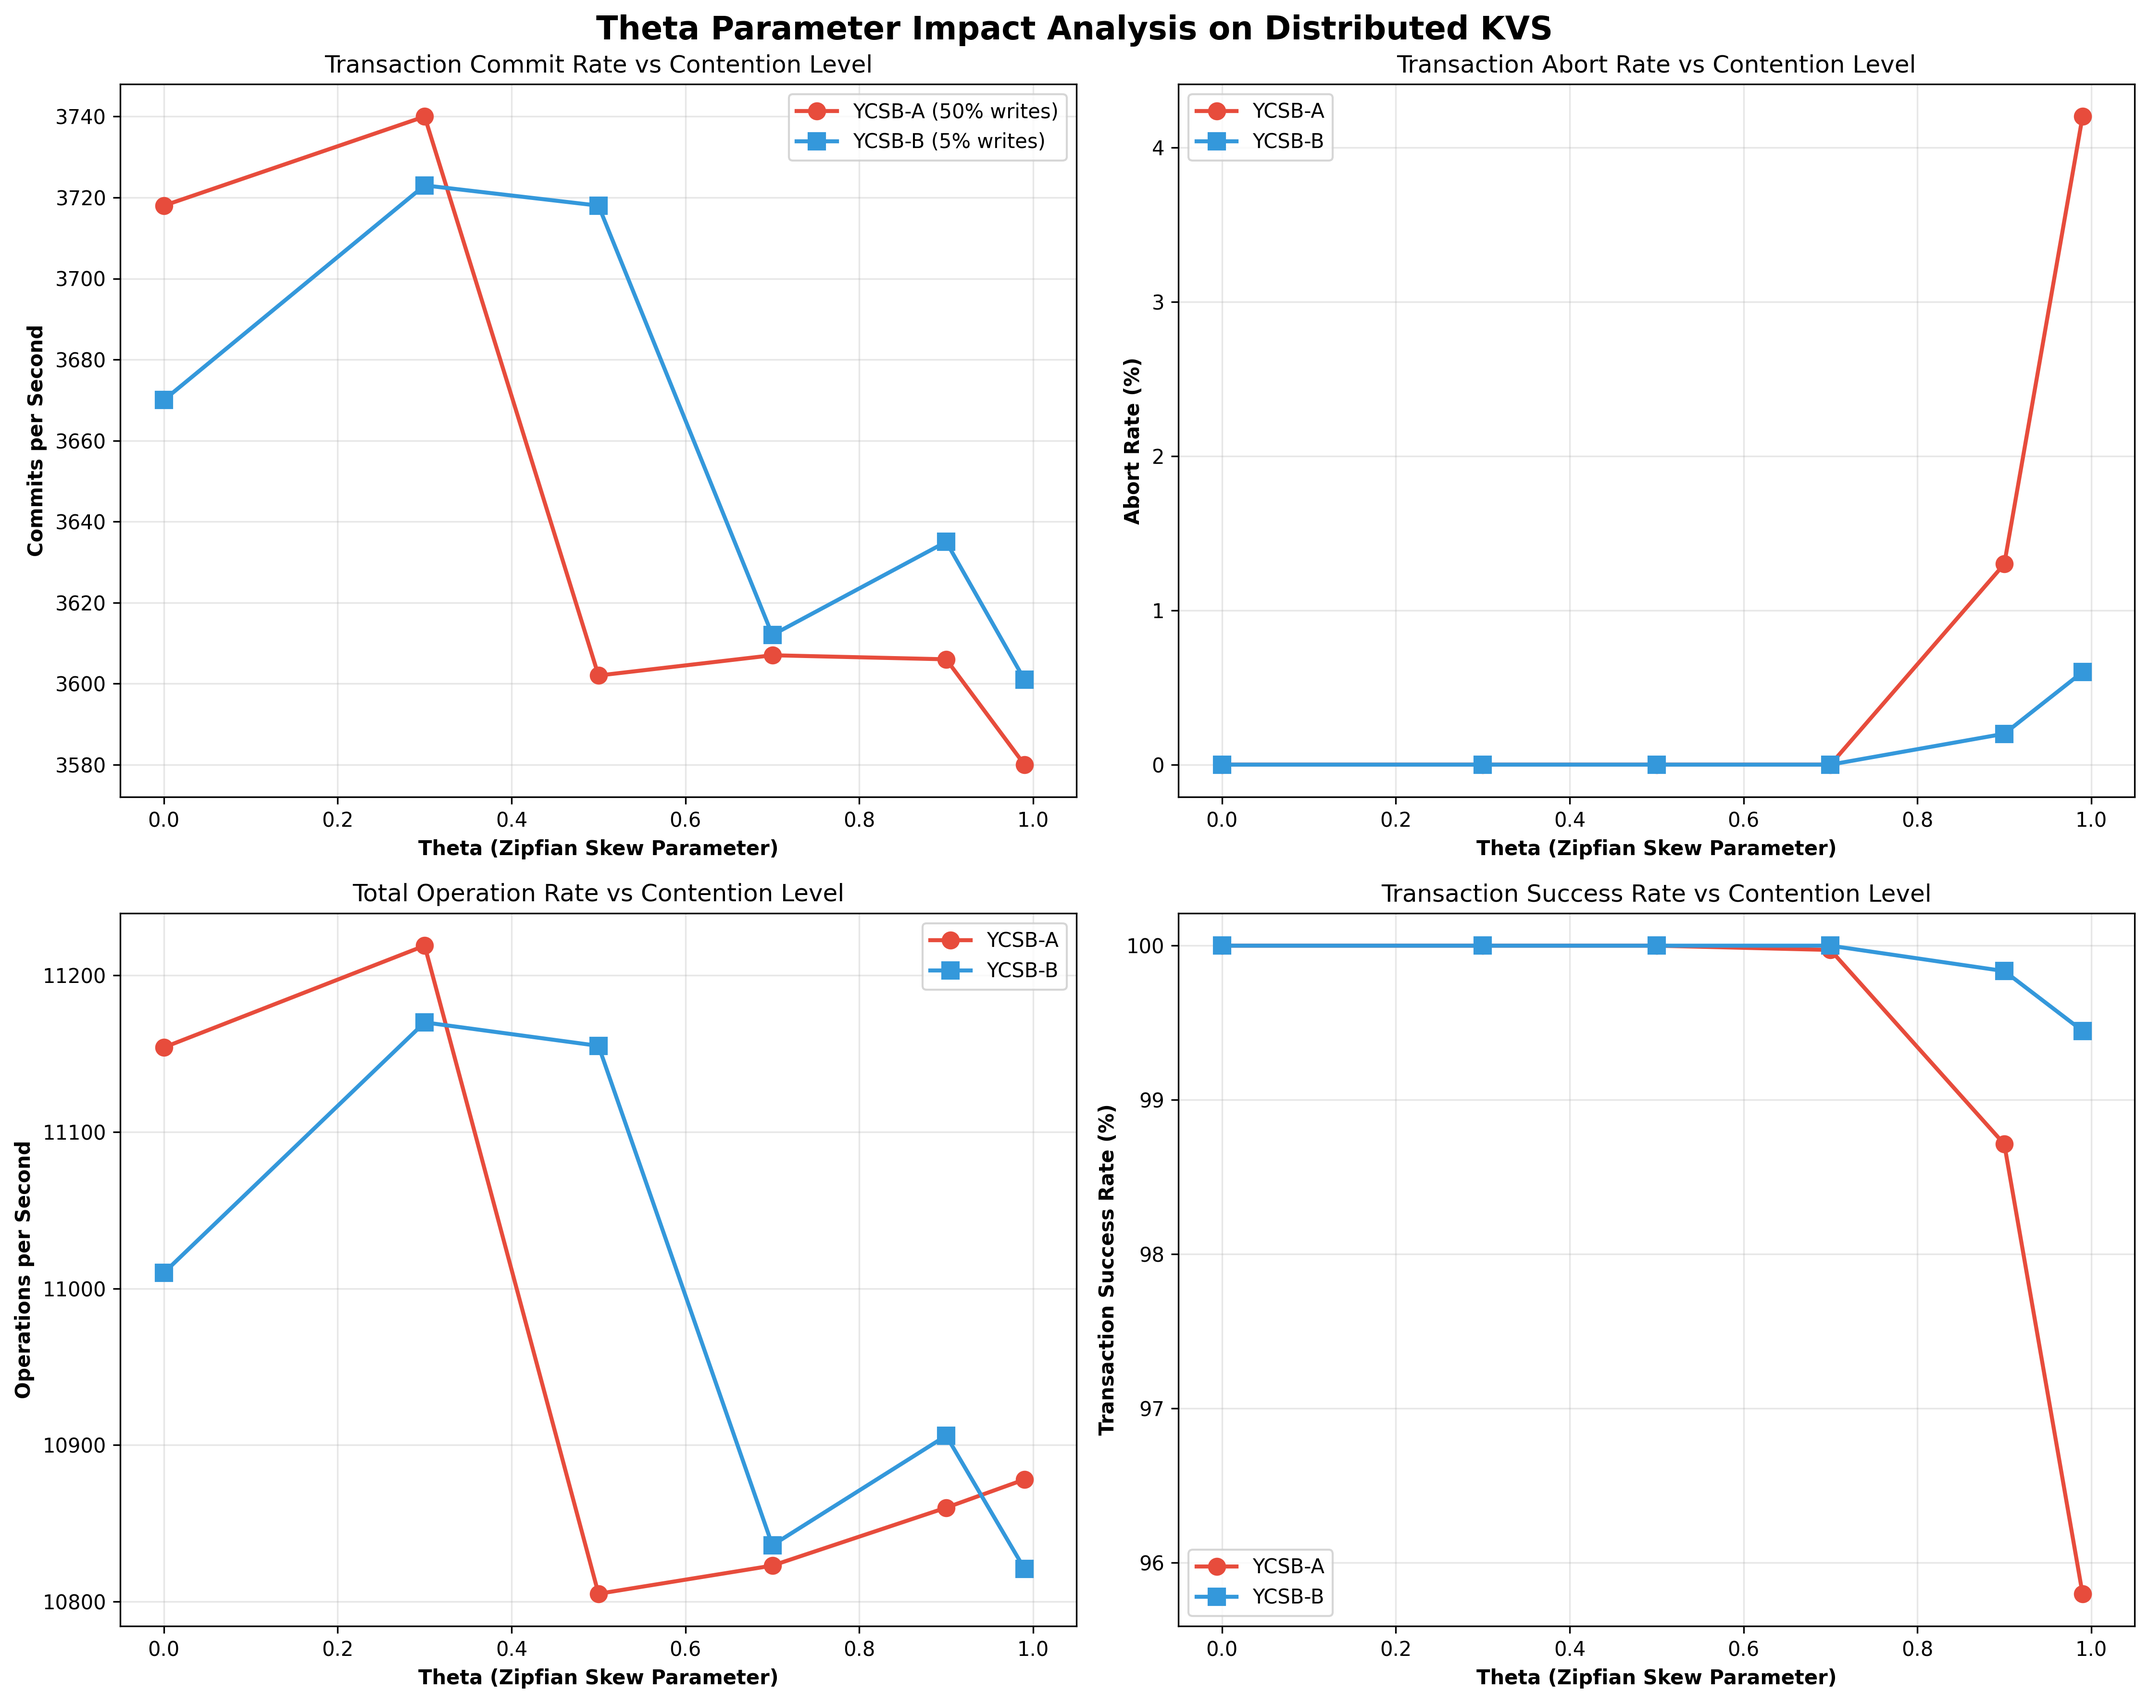
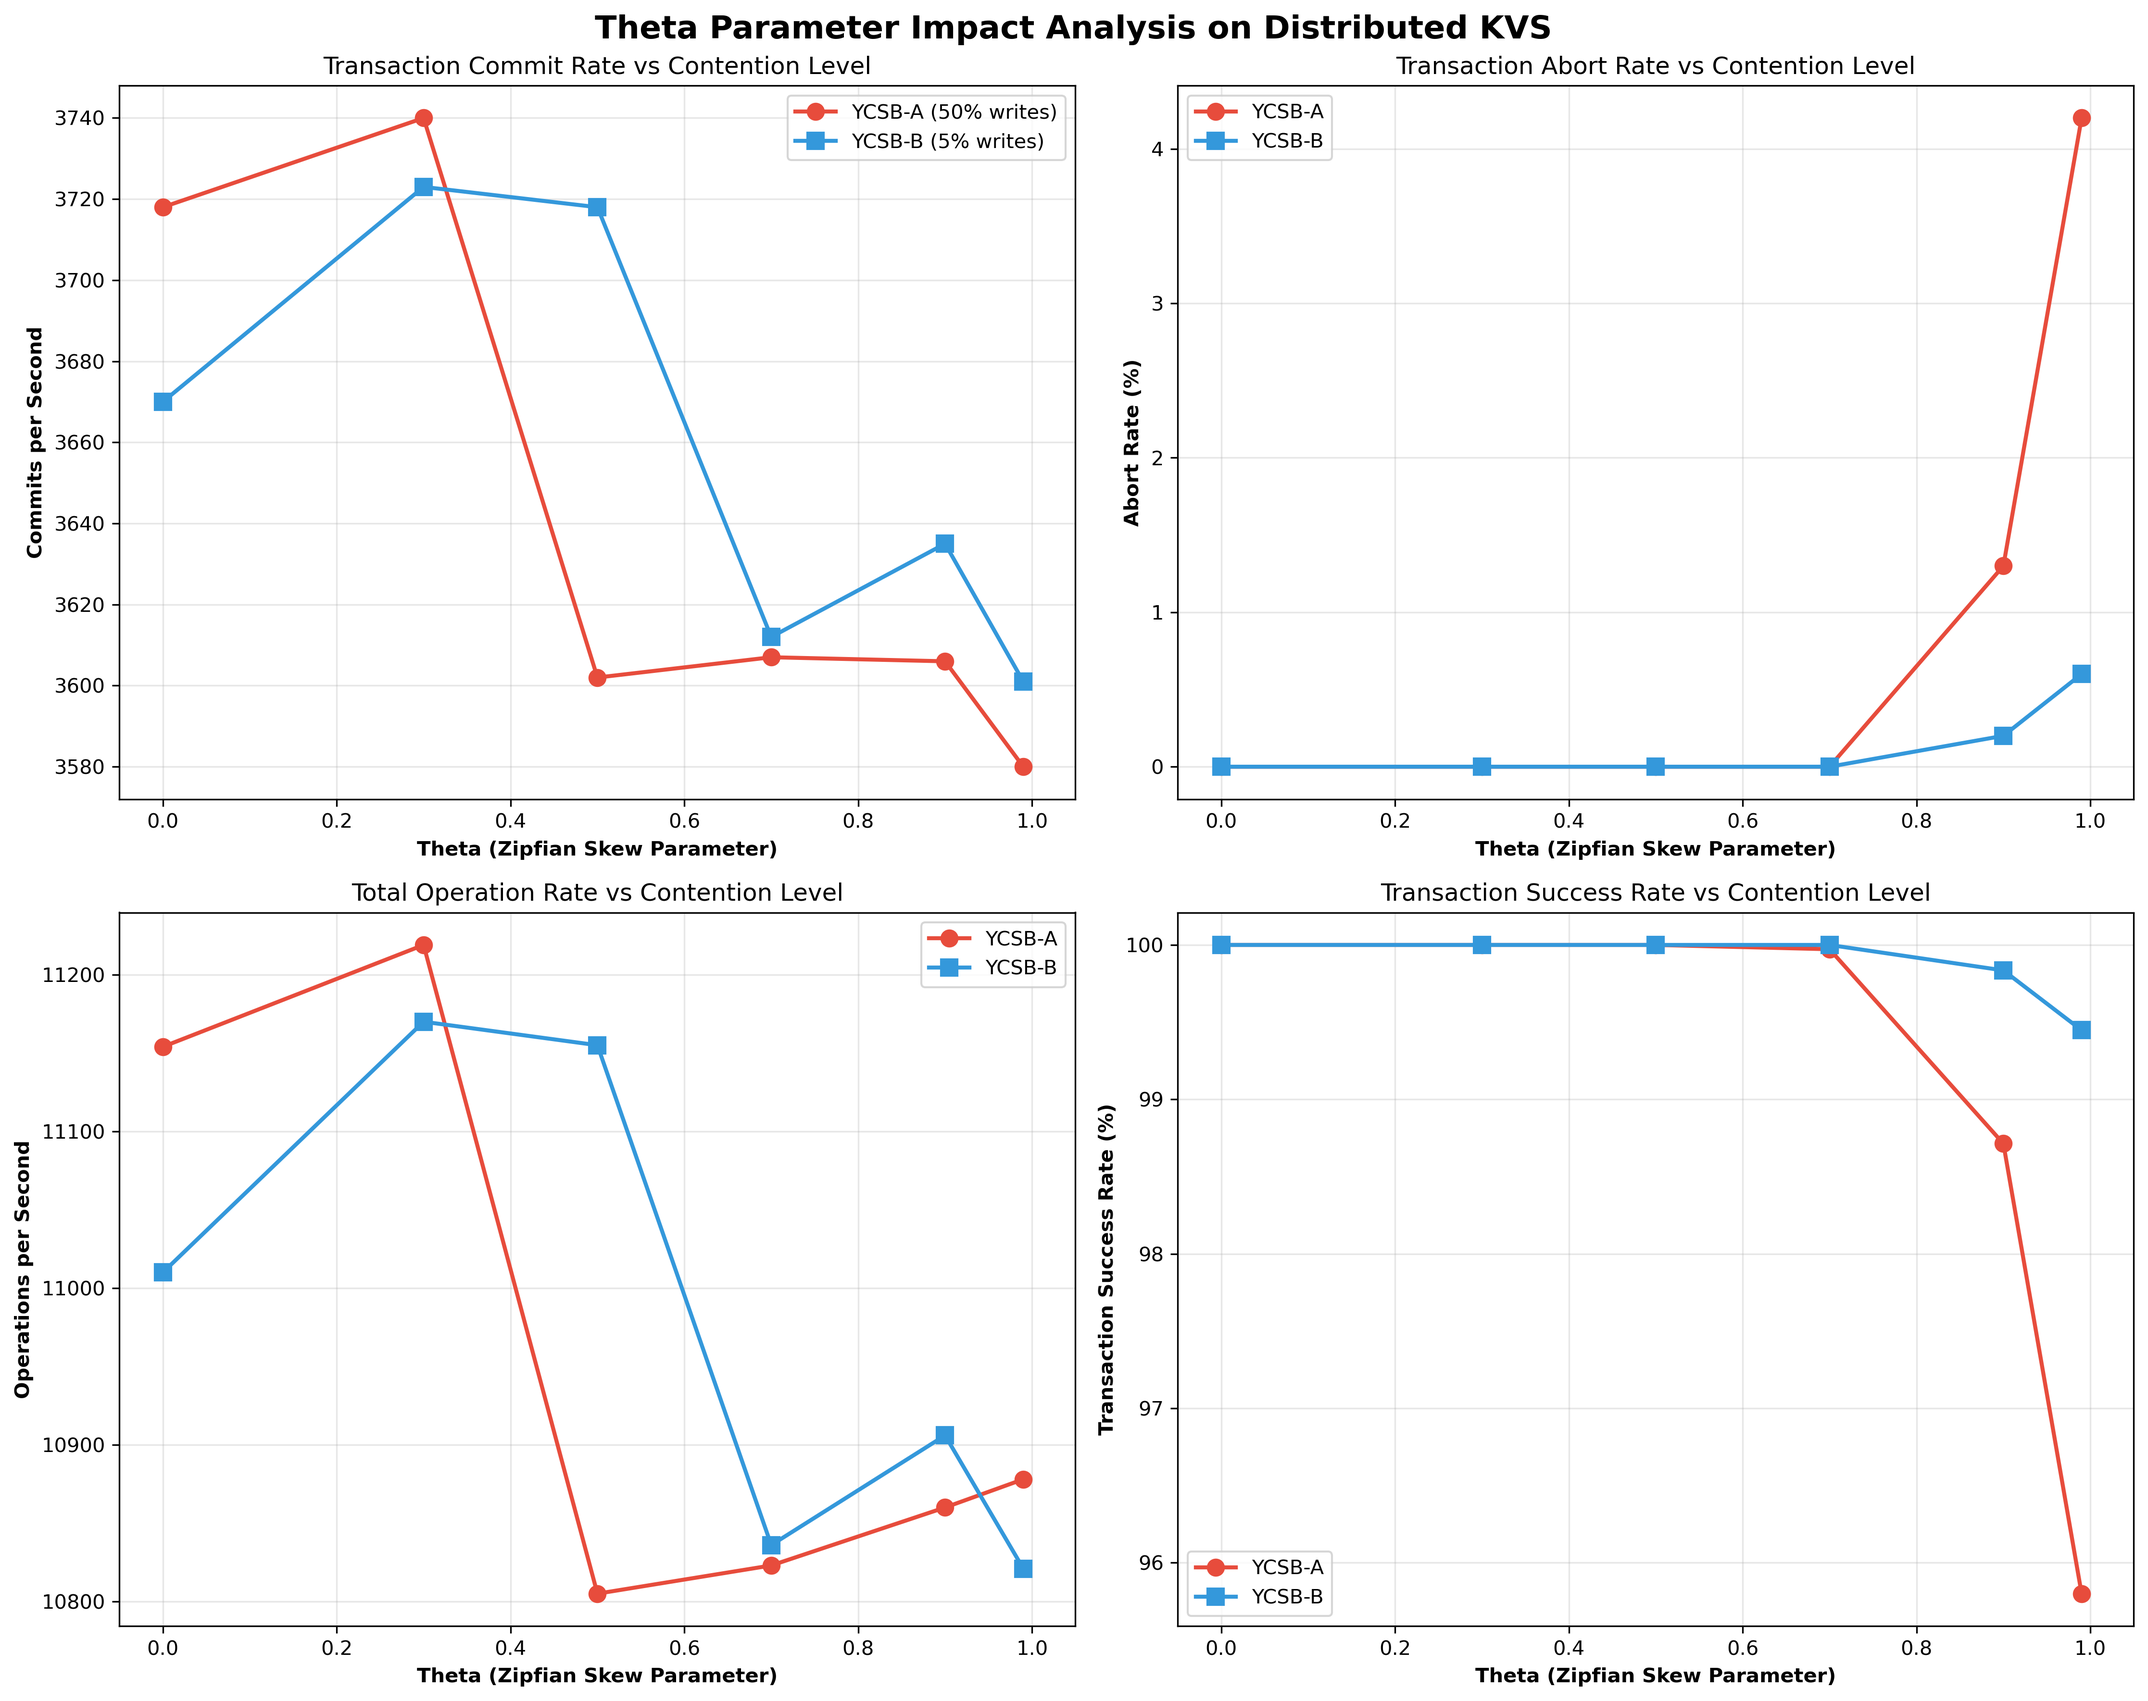
scale analysis plotting

diff --git a/plot_scale_analysis.py b/plot_scale_analysis.py
@@ -1,0 +1,118 @@
+#!/usr/bin/env python3
+
+import pandas as pd
+import matplotlib
+matplotlib.use('Agg')  # Use non-interactive backend
+import matplotlib.pyplot as plt
+import sys
+import glob
+import numpy as np
+
+def plot_scale_analysis(csv_file):
+    """Generate plots from scaling analysis CSV data"""
+
+    # Read the CSV file
+    try:
+        df = pd.read_csv(csv_file)
+    except FileNotFoundError:
+        print(f"Error: Could not find file {csv_file}")
+        return
+    except Exception as e:
+        print(f"Error reading CSV file: {e}")
+        return
+
+    # Create figure with subplots
+    fig, (ax1, ax2) = plt.subplots(1, 2, figsize=(15, 6))
+    fig.suptitle('Scaling Impact Analysis on Distributed KVS', fontsize=16, fontweight='bold')
+
+    # Colors for different total number of machines #1d0c19
+    colors = {'2': '#3498db','3': '#518cc2','4': '#6e80a9','5': '#8df286','6': '#abbb1b','7': '#c983ab','8': '#e74c3c'}
+    markers = {'2':'o', '3':'s', '4':'v', '5':'D', '6':'X', '7':'*', '8':'P'}
+
+    # Plot 1: Commit Rate vs # Client Nodes
+    for num_nodes in df['num_nodes'].unique():
+        workload_data = df[df['num_nodes'] == num_nodes]
+        ax1.plot(workload_data['clients'], workload_data['commits_per_sec'], color=colors[str(num_nodes)], 
+                linewidth=2, linestyle='--', markersize=8, marker=markers[str(num_nodes)], label=f'{num_nodes} nodes')
+
+    ax1.set_xlabel('Number of Client Nodes', fontweight='bold')
+    ax1.set_ylabel('Commits per Second', fontweight='bold')
+    ax1.set_title('Transaction Commit Rate vs Number of Client Nodes')
+    ax1.grid(True, alpha=0.3)
+    ax1.legend()
+
+    # Plot 2: Total Ops/s vs # Client Nodes
+    for num_nodes in df['num_nodes'].unique():
+        workload_data = df[df['num_nodes'] == num_nodes]
+        ax2.plot(workload_data['clients'], workload_data['ops_per_sec'], color=colors[str(num_nodes)], 
+                linewidth=2, linestyle='--', markersize=8, marker=markers[str(num_nodes)], label=f'{num_nodes} nodes')
+
+    ax2.set_xlabel('Number of Client Nodes', fontweight='bold')
+    ax2.set_ylabel('Operations per Second', fontweight='bold')
+    ax2.set_title('Total Operation Rate vs Number of Client Nodes')
+    ax2.grid(True, alpha=0.3)
+    ax2.legend()
+    # ax2.set_xlim(-0.05, 1.05)
+
+    # Adjust layout and save
+    plt.tight_layout()
+
+    # Save the plot
+    output_file = csv_file.replace('.csv', '_plot.png')
+    plt.savefig(output_file, dpi=300, bbox_inches='tight')
+    print(f"Plot saved as: {output_file}")
+
+    # Also save as PDF for better quality
+    # pdf_file = csv_file.replace('.csv', '_analysis.pdf')
+    # plt.savefig(pdf_file, bbox_inches='tight')
+    # print(f"High-quality plot saved as: {pdf_file}")
+
+    # Show the plot
+    # plt.show()  # Commented out to avoid display issues in headless environment
+
+def create_summary_table(csv_file):
+    """Create a summary table of the results"""
+    df = pd.read_csv(csv_file)
+
+    print("\n" + "="*80)
+    print("SCALE ANALYSIS SUMMARY TABLE")
+    print("="*80)
+
+    for num_nodes in sorted(df['num_nodes'].unique()):
+        print(f"\nCluster size {num_nodes}:")
+        print("-" * 80)
+        workload_data = df[df['num_nodes'] == num_nodes]
+
+        print(f"{'Clients':<12} {'Servers':<12} {'Commits/s':<12} {'Aborts/s':<12} {'Abort Rate':<12} {'Success Rate':<12} {'Theta':<8} {'Workload'}")
+        print("-" * 80)
+
+        for _, row in workload_data.iterrows():
+            success_rate = (row['commits_per_sec'] / (row['commits_per_sec'] + row['aborts_per_sec'])) * 100 if (row['commits_per_sec'] + row['aborts_per_sec']) > 0 else 100
+            print(f"{row['clients']:<12} {row['servers']:<12} {row['commits_per_sec']:<12.0f} {row['aborts_per_sec']:<12.0f} "
+                  f"%{row['abort_rate']:<12.1f} %{success_rate:<12.1f} {row['theta']:<8.2f} {row['workload']}")
+
+def main():
+    """Main function to process CSV and generate plots"""
+
+    # Check for CSV file argument
+    if len(sys.argv) > 1:
+        csv_file = sys.argv[1]
+    else:
+        # Look for the most recent theta analysis CSV file
+        csv_files = glob.glob("scale_results_*.csv")
+        if not csv_files:
+            print("No scale analysis CSV files found.")
+            print("Usage: python3 plot_scale_analysis.py [csv_file]")
+            print("   or: run scaling.sh first to generate data")
+            return
+
+        # Use the most recent file
+        csv_file = max(csv_files, key=lambda x: x.split('_')[-1])
+        print(f"Using most recent CSV file: {csv_file}")
+
+    # Generate plots and summary
+    plot_scale_analysis(csv_file)
+    create_summary_table(csv_file)
+
+if __name__ == "__main__":
+    main()
